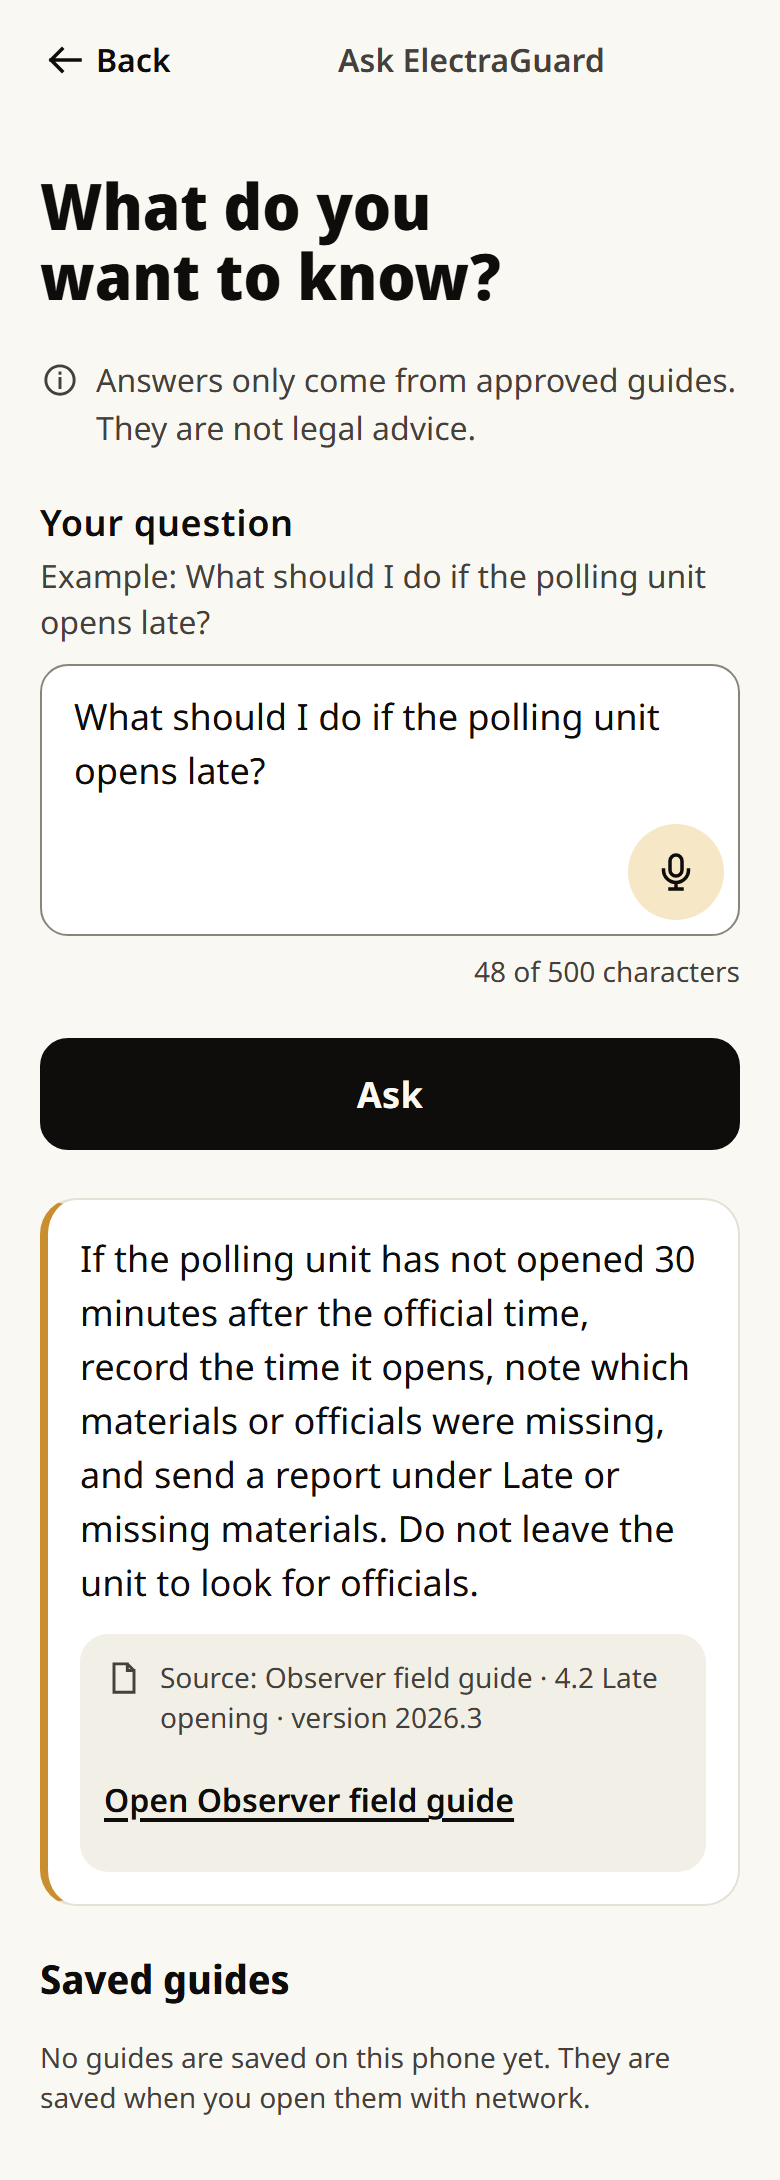
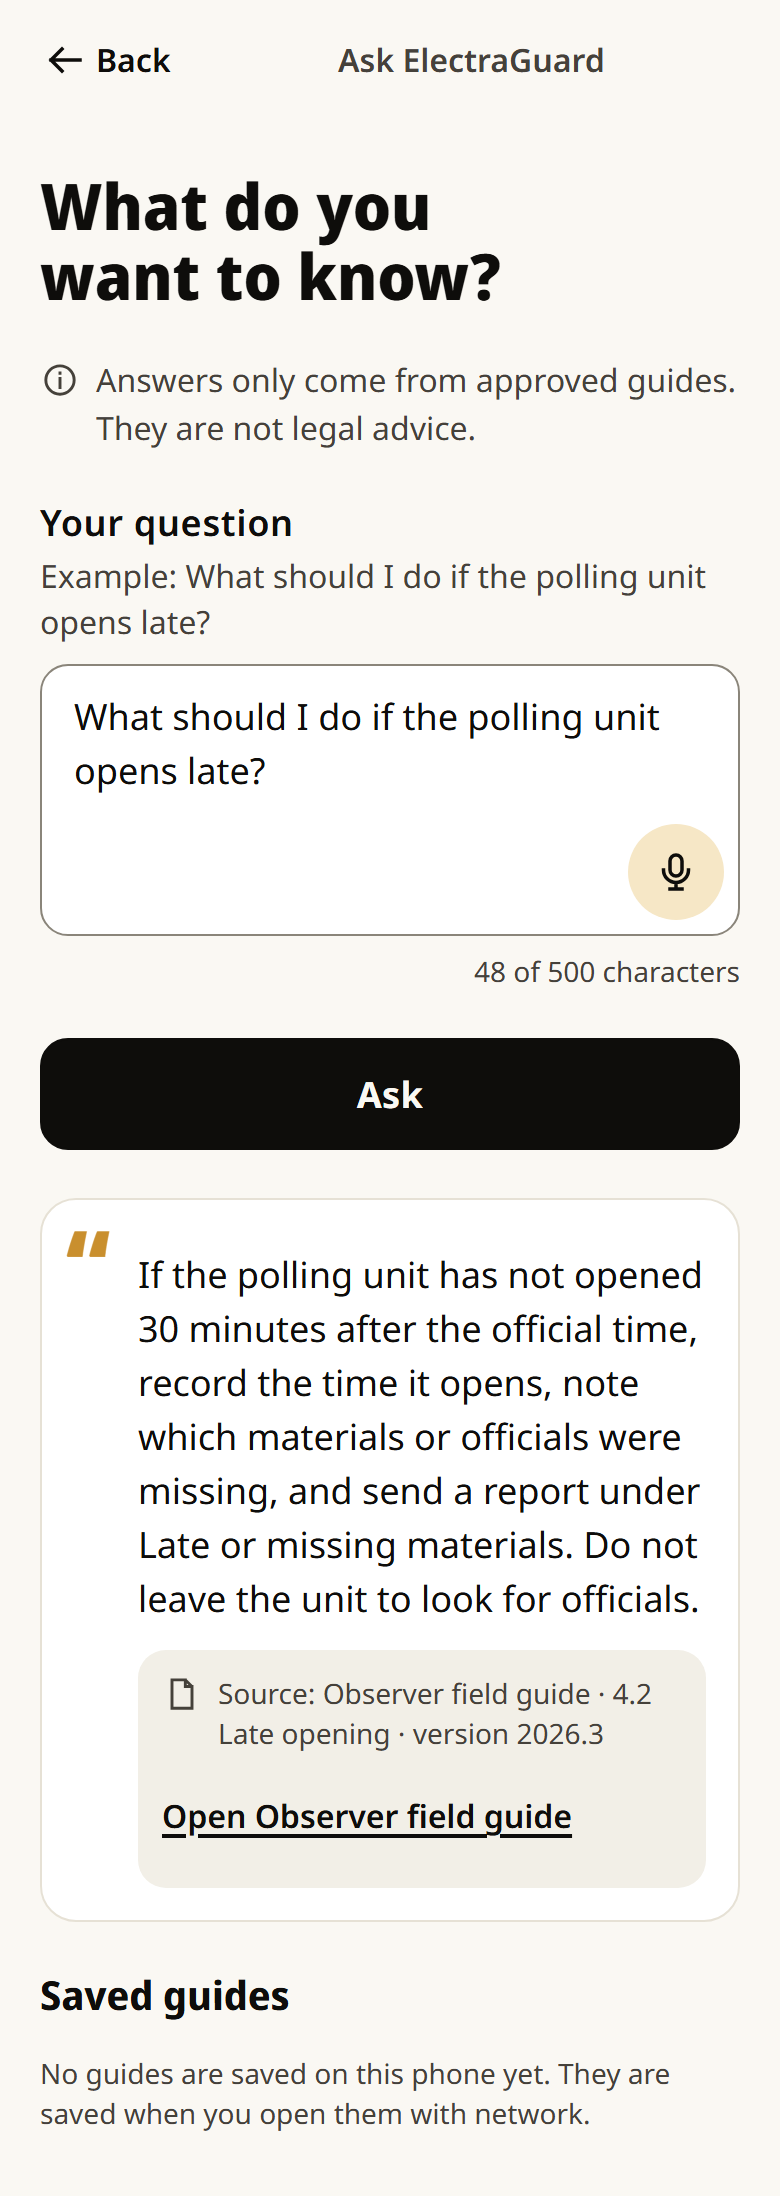
Redesign the public ask page and drop the answer side stripe
The public Ask page now matches the observer one. Each answer is one
raised card: the guide's words with a sun opening quote mark, then the
source as an inner card with the guide, section, version and a link.
Three sun dots pulse while the real request waits, the mic sits in the
question field's corner, and "Not legal advice. Your questions are not
stored." moves under the intro, before anything is asked. The observer
answer card loses the sun side stripe added earlier, which the Ask
screen spec rules out, and takes the same hairline and quote mark.
Includes phone and desktop screenshots for screen 34 and refreshed
screen 26 screenshots.

diff --git a/frontend/app/(public)/ask/AskScreen.tsx b/frontend/app/(public)/ask/AskScreen.tsx
@@ -8,6 +8,8 @@ import { useLocale, useT } from "../../../lib/i18n/client";
 import { localeTags } from "../../../lib/i18n";
 import { Button } from "../../../ui/Button/Button";
 import { TextArea } from "../../../ui/Field/TextArea";
+import { DictationCorner, DictationStatus, useDictation } from "../../../ui/DictationButton/DictationButton";
+import { FileIcon } from "../../../ui/icons";
 import { StatusShape } from "../../../ui/StatusBadge/StatusBadge";
 import styles from "./ask.module.css";
 
@@ -37,6 +39,7 @@ export function AskScreen({ initial = { kind: "idle" }, initialQuestion = "" }: 
   const [state, setState] = useState<AskState>(initial);
   const answerRef = useRef<HTMLDivElement>(null);
   const inputRef = useRef<HTMLTextAreaElement>(null);
+  const dictation = useDictation(localeTags[locale], (text) => setQuestion((current) => (current ? `${current} ${text}` : text).slice(0, MAX)));
 
   async function submit(event: FormEvent) {
     event.preventDefault();
@@ -81,8 +84,10 @@ export function AskScreen({ initial = { kind: "idle" }, initialQuestion = "" }: 
           onChange={(event) => setQuestion(event.target.value)}
           maxLength={MAX}
           rows={3}
+          adornment={<DictationCorner dictation={dictation} />}
           data-testid="ask-question"
         />
+        <DictationStatus dictation={dictation} />
         <div className={styles.submit}>
           <Button type="submit" loading={state.kind === "asking"} loadingLabel={t("p04.asking")} data-testid="ask-submit">
             {t("p04.ask")}
@@ -90,6 +95,14 @@ export function AskScreen({ initial = { kind: "idle" }, initialQuestion = "" }: 
         </div>
       </form>
 
+      {state.kind === "asking" ? (
+        <p className={styles.thinking} data-testid="ask-thinking">
+          <span aria-hidden="true" />
+          <span aria-hidden="true" />
+          <span aria-hidden="true" />
+          <span className="eg-sr-only">{t("p04.asking")}</span>
+        </p>
+      ) : null}
       <div ref={answerRef} tabIndex={-1} className={styles.answer} aria-live="polite" data-testid="ask-answer">
         {state.kind === "answered" ? (
           <section aria-labelledby="p04-answer">
@@ -103,7 +116,10 @@ export function AskScreen({ initial = { kind: "idle" }, initialQuestion = "" }: 
                       <p>{passage.text}</p>
                     </blockquote>
                     <figcaption className={styles.source}>
-                      <span className={styles.sourceTitle}>{t("p04.source", { title: passage.source.title, section: passage.source.section })}</span>
+                      <span className={styles.sourceTitle}>
+                        <FileIcon size={20} aria-hidden="true" />
+                        {t("p04.source", { title: passage.source.title, section: passage.source.section })}
+                      </span>
                       <span className={styles.version}>{t("p04.version", { version: passage.source.version })}</span>
                       {passage.source.url.startsWith("/") ? (
                         <Link href={passage.source.url} className={styles.sourceLink}>

diff --git a/frontend/app/(public)/ask/ask.module.css b/frontend/app/(public)/ask/ask.module.css
@@ -173,3 +173,97 @@
   gap: var(--s-3) var(--s-5);
   margin: var(--s-3) 0 0;
 }
+
+/* ---------- Redesign (spec screen 34, matching screen 26) ---------- */
+/* One card per passage: the quote, then its source as an inner card. */
+.passage {
+  gap: 0;
+  border: 1px solid var(--rule);
+  border-radius: var(--radius-lg);
+  background: var(--paper-raised);
+  overflow: hidden;
+  animation: egPublicAnswerIn var(--dur-fade) var(--ease-out);
+}
+
+.passage blockquote {
+  border: 0;
+  border-radius: 0;
+  background: none;
+}
+
+.passage blockquote::before {
+  color: var(--sun-strong);
+}
+
+.source {
+  margin: 0 var(--s-4) var(--s-4);
+  padding: var(--s-3) var(--s-4);
+  border-radius: var(--radius);
+  background: var(--paper-2);
+}
+
+.sourceTitle {
+  display: flex;
+  align-items: flex-start;
+  gap: var(--s-2);
+}
+
+.sourceTitle svg {
+  flex: none;
+}
+
+@keyframes egPublicAnswerIn {
+  from {
+    opacity: 0;
+  }
+}
+
+/* Thinking: three sun dots in turn, only during the real wait. */
+.thinking {
+  display: flex;
+  gap: 8px;
+  margin: 0;
+}
+
+.thinking > span[aria-hidden] {
+  width: 10px;
+  height: 10px;
+  border-radius: 50%;
+  background: var(--sun-strong);
+  animation: egPublicThink 1.1s ease-in-out infinite;
+}
+
+.thinking > span[aria-hidden]:nth-child(2) {
+  animation-delay: 180ms;
+}
+
+.thinking > span[aria-hidden]:nth-child(3) {
+  animation-delay: 360ms;
+}
+
+@keyframes egPublicThink {
+  0%, 80%, 100% {
+    opacity: 0.3;
+    transform: scale(0.8);
+  }
+  40% {
+    opacity: 1;
+    transform: scale(1);
+  }
+}
+
+@media (prefers-reduced-motion: reduce) {
+  .passage {
+    animation: none;
+  }
+
+  .thinking > span[aria-hidden] {
+    animation: none;
+    opacity: 0.7;
+  }
+}
+
+/* A wide centred column (max 720 px). */
+.ask {
+  max-width: 45rem;
+}

diff --git a/frontend/app/(observer)/o/_components/screens.module.css b/frontend/app/(observer)/o/_components/screens.module.css
@@ -688,17 +688,29 @@
 
 /* ---------- Ask (O-19) ---------- */
 
-/* The answer: the guide's own words with a sun edge, then the source as a card inside. */
+/* The answer: the guide's own words, set apart by a hairline on all four sides and a sun
+   opening quote mark (never a side stripe, O-19), then the source as a card inside. */
 .quote {
+  position: relative;
   display: grid;
   gap: var(--s-3);
   margin: 0;
-  padding: var(--s-4);
+  padding: var(--s-5) var(--s-4) var(--s-4) var(--s-7);
   border: 1px solid var(--rule);
-  border-left: 4px solid var(--sun-strong);
   border-radius: var(--radius-lg);
   background: var(--paper-raised);
   animation: egAnswerIn var(--dur-fade) var(--ease-out);
+}
+
+.quote::before {
+  content: "\201C";
+  position: absolute;
+  inset-inline-start: var(--s-3);
+  top: var(--s-2);
+  font: var(--t-display);
+  font-size: 3rem;
+  line-height: 1;
+  color: var(--sun-strong);
 }
 
 @keyframes egAnswerIn {

diff --git a/frontend/app/(public)/ask/page.tsx b/frontend/app/(public)/ask/page.tsx
@@ -16,9 +16,9 @@ export default async function AskPage() {
       <header className={styles.header}>
         <h1 className={styles.title}>{t("p04.heading")}</h1>
         <p className={styles.lead}>{t("p04.lead")}</p>
+        <p className={styles.small}>{t("p04.note")}</p>
       </header>
       <AskScreen />
-      <p className={styles.small}>{t("p04.note")}</p>
     </div>
   );
 }
